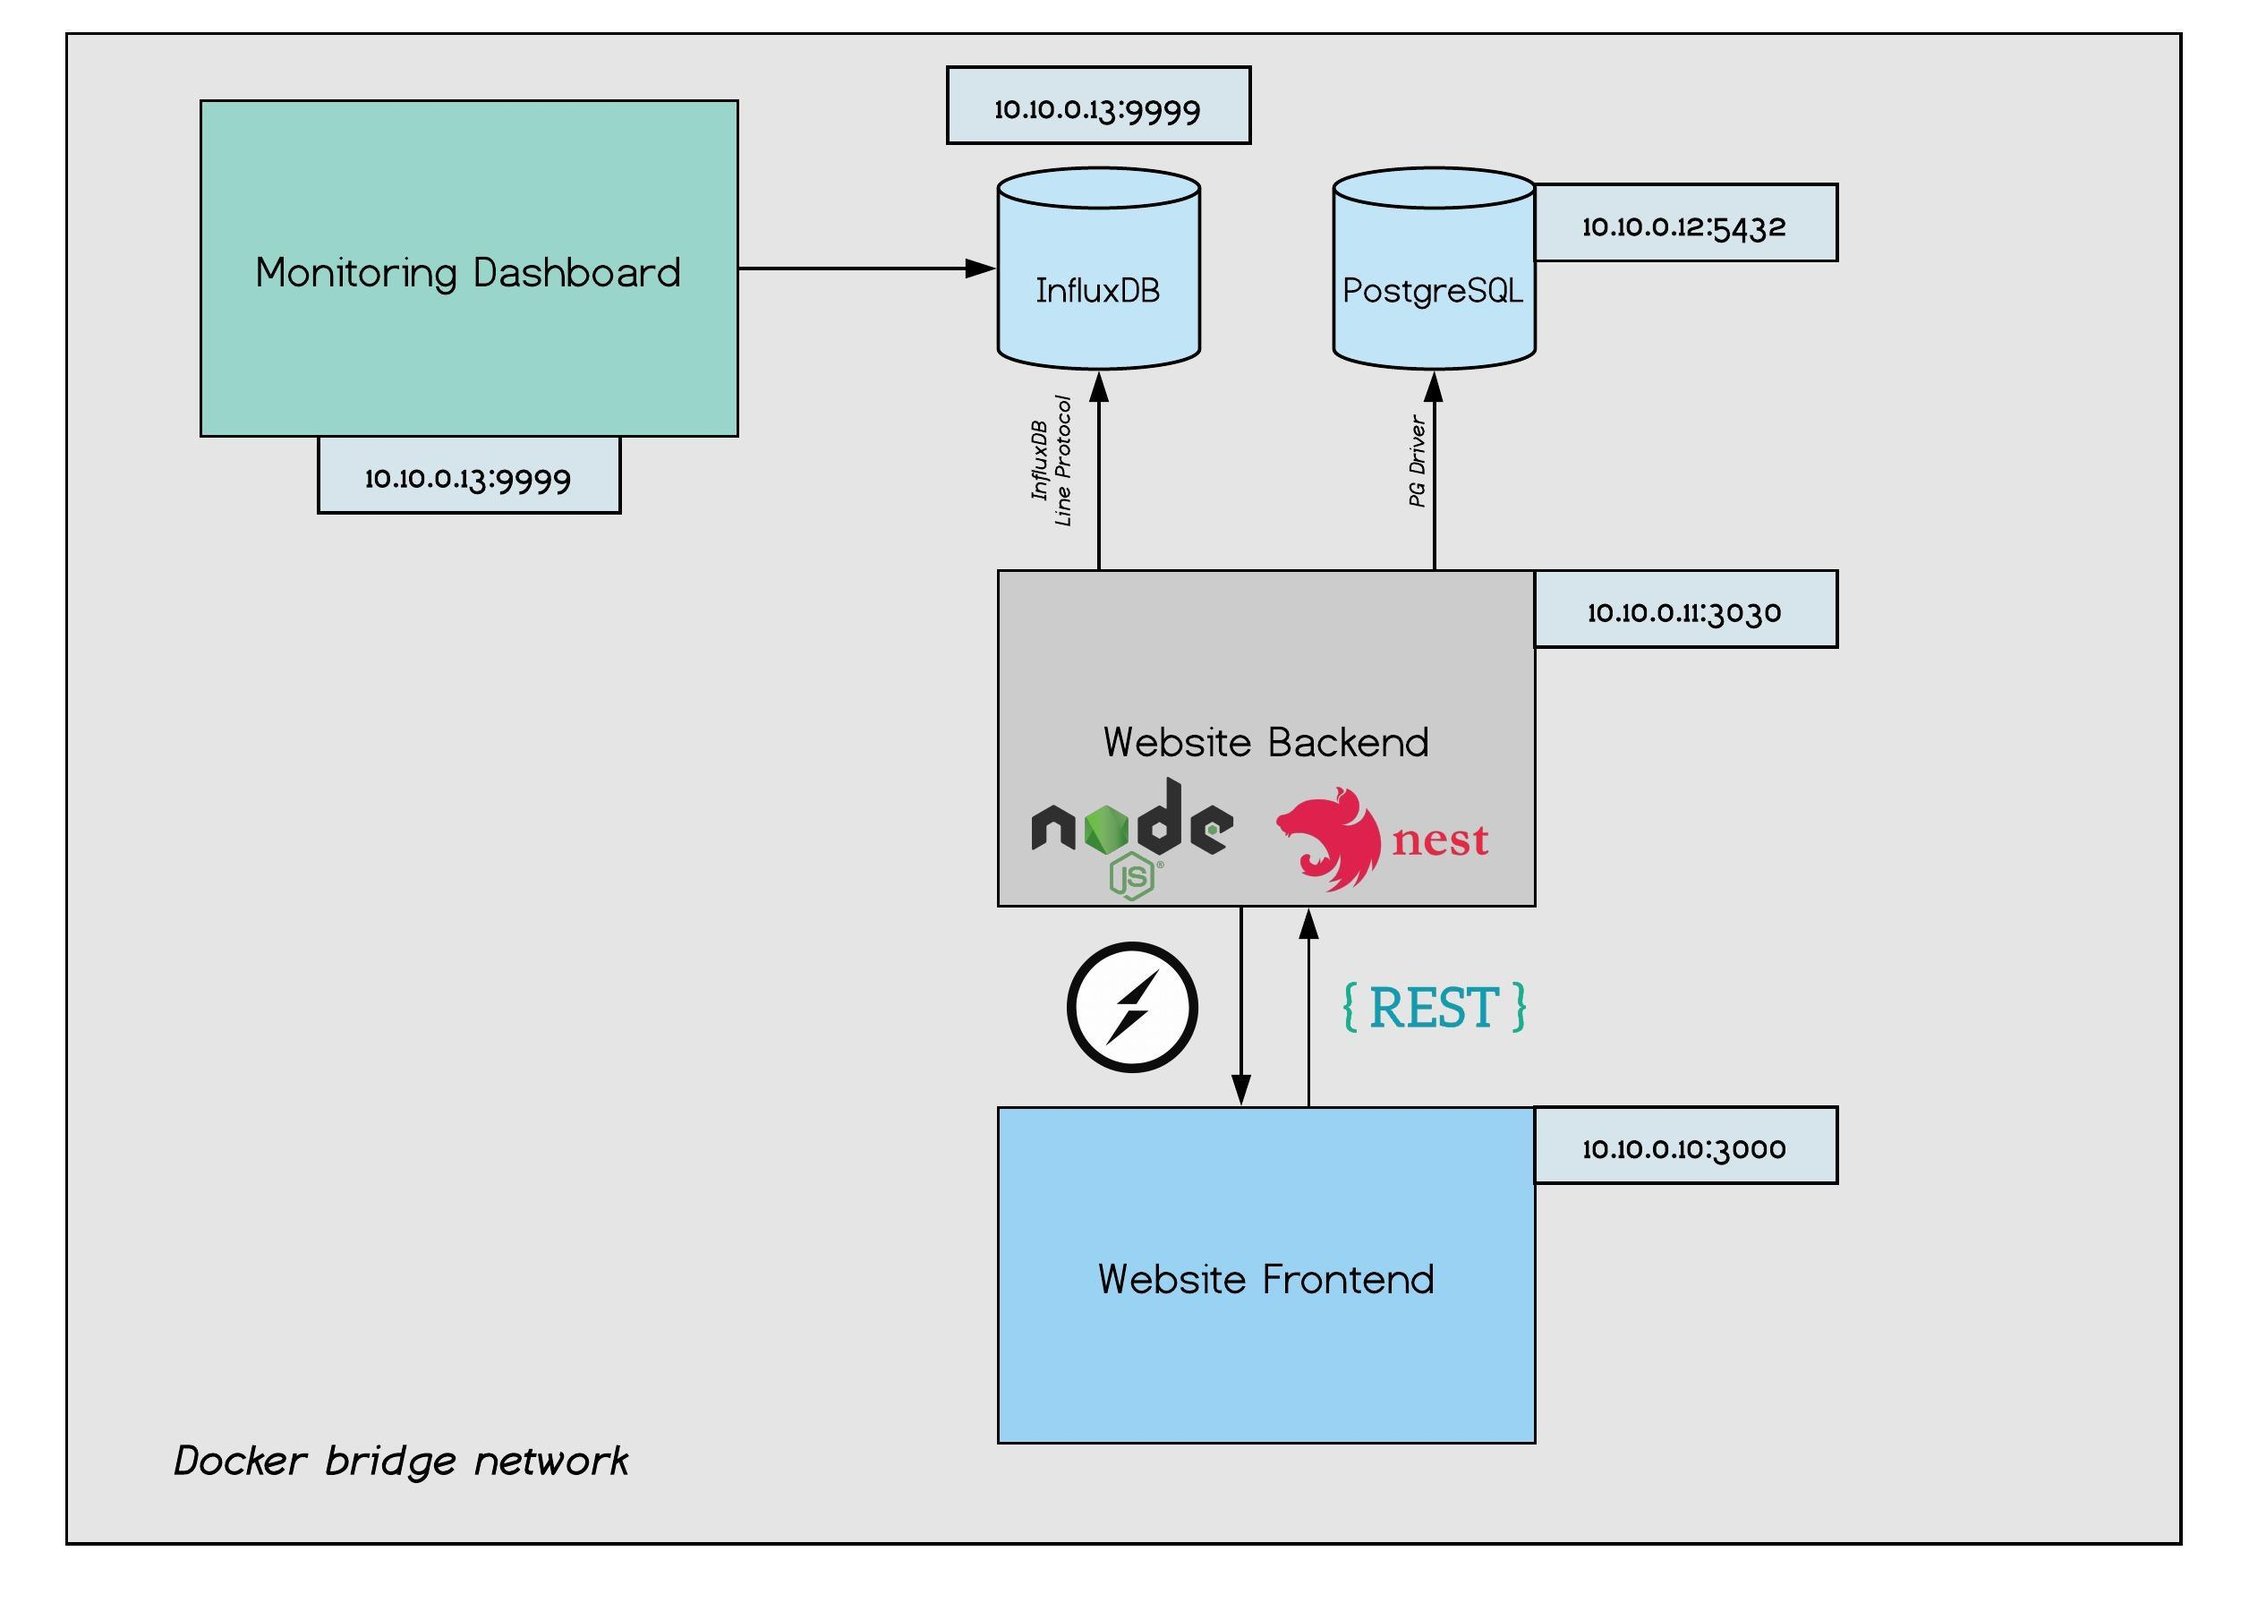
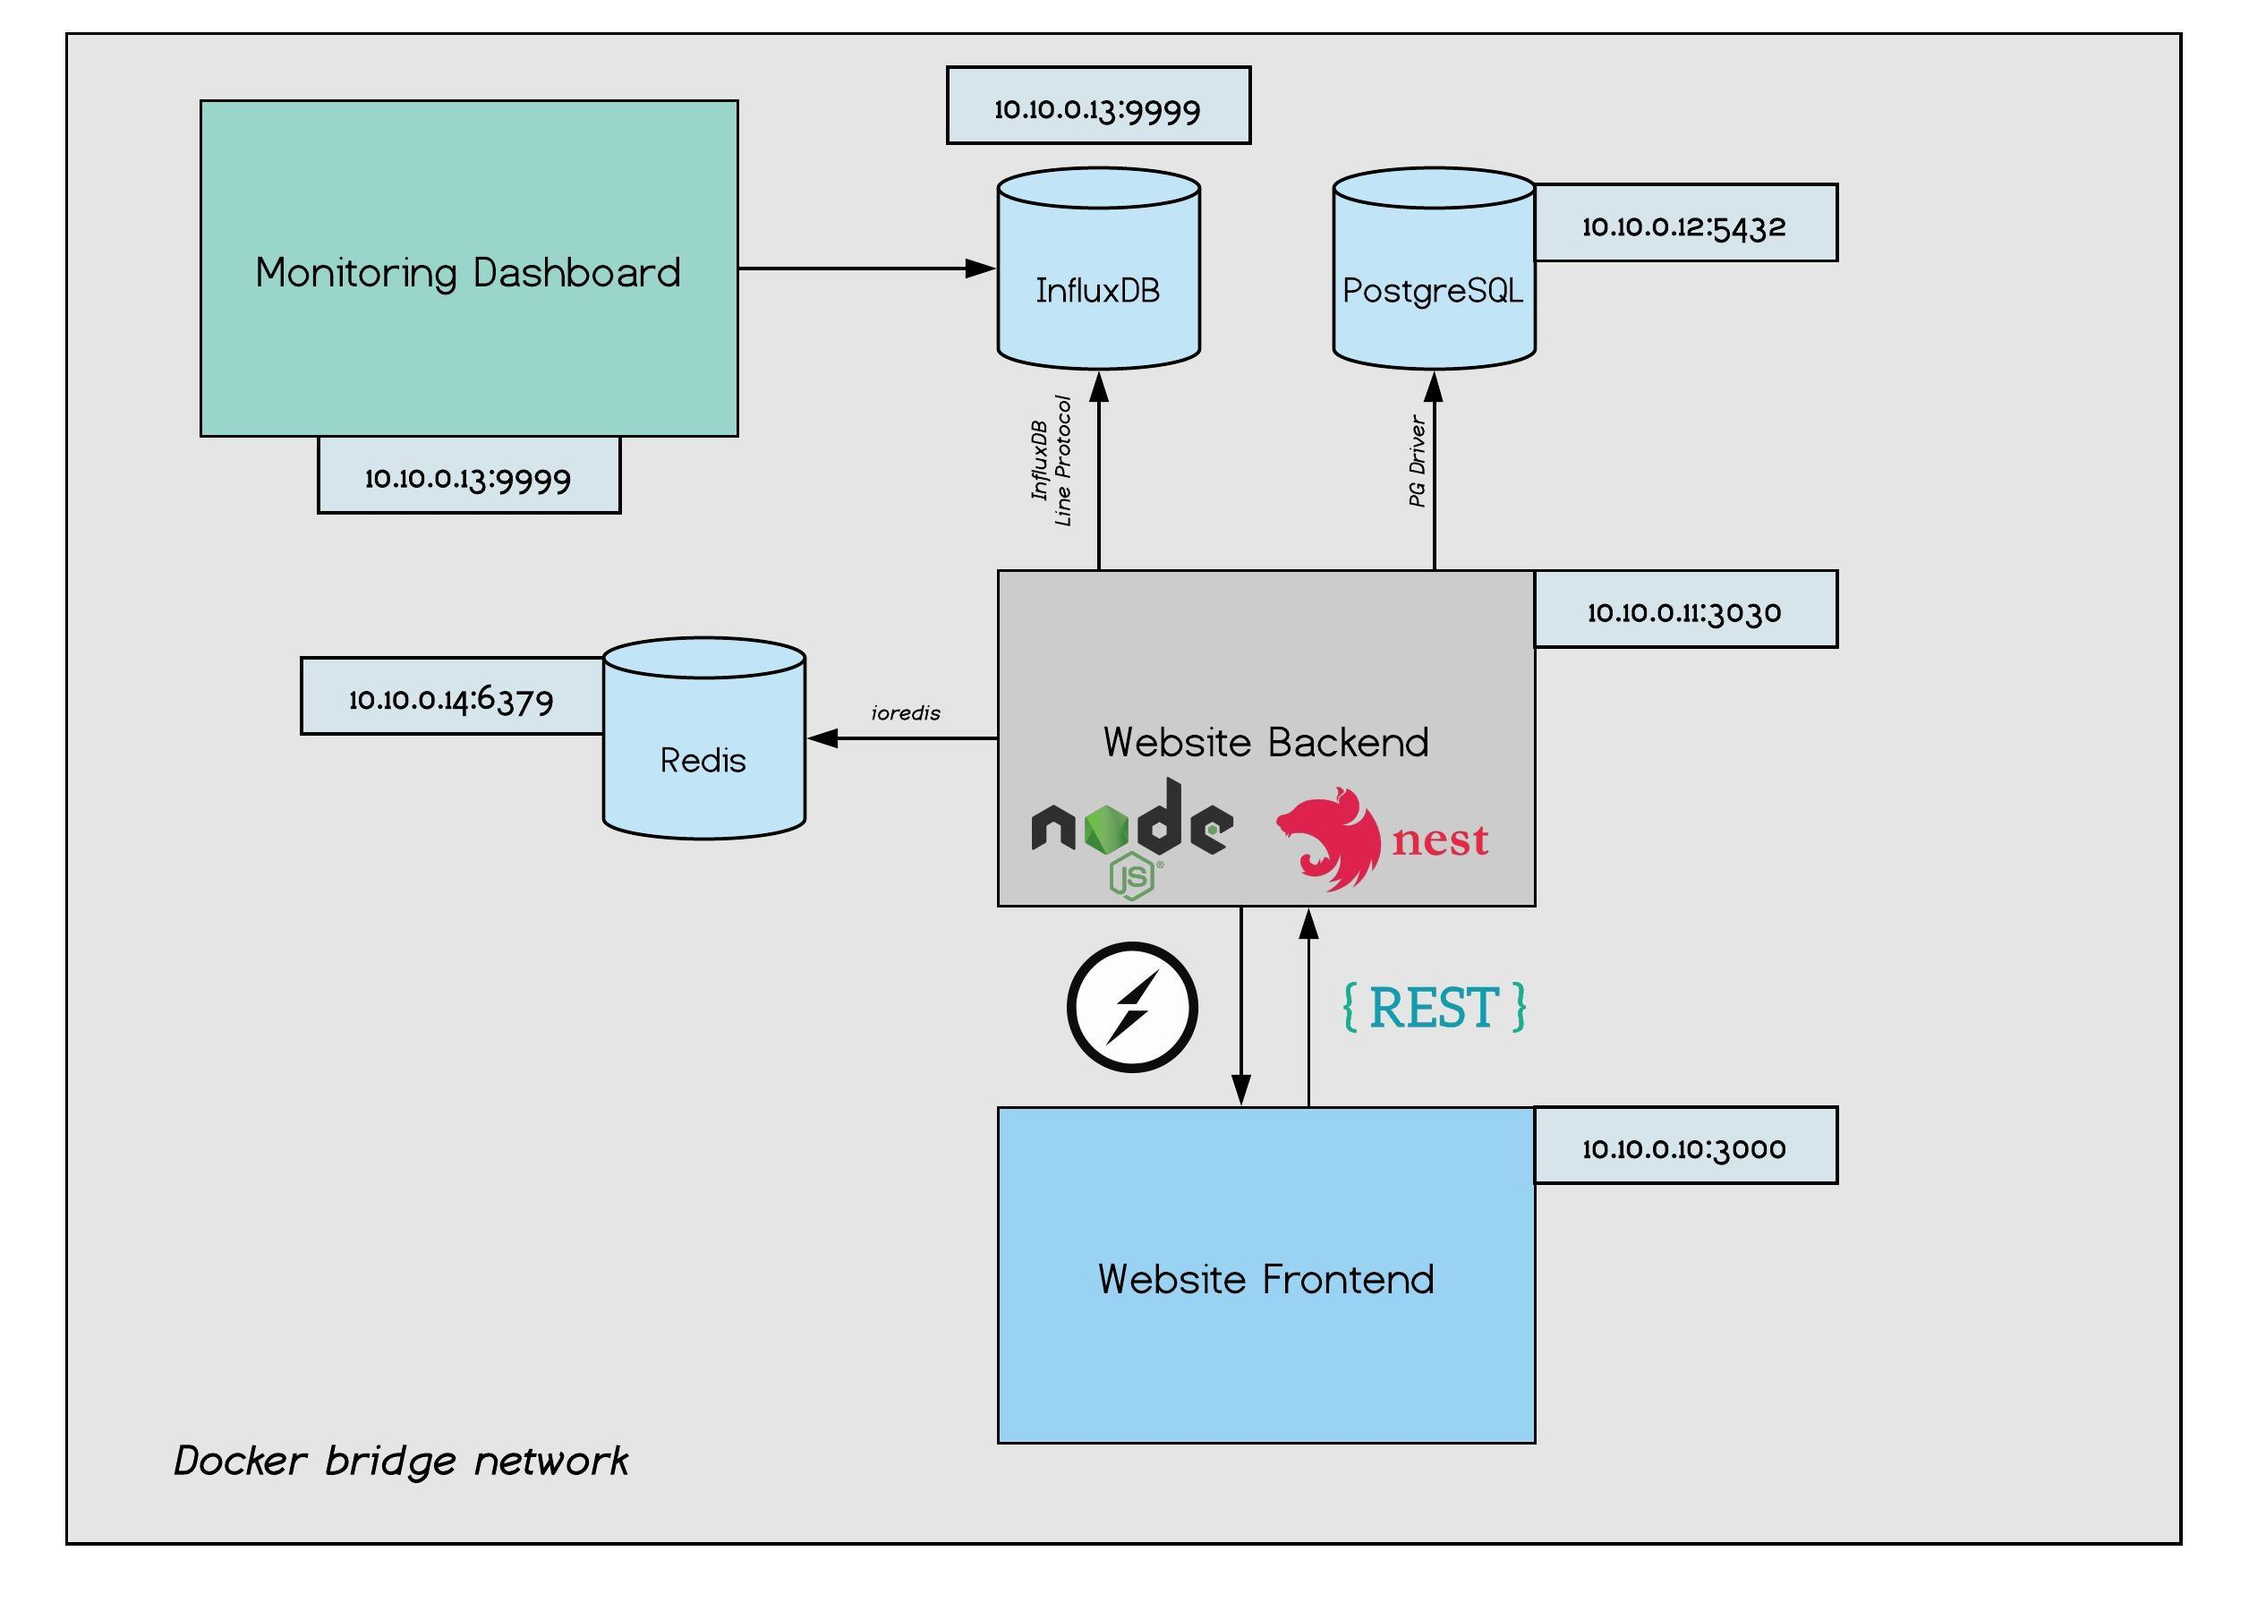
Implemented: Added redis to infrastructure; Added custom ConfigModule; Refactored config actions with new custom ConfigService; Added uniqueness mode for visitors counting (by ip); Added Redis module; Added TSDB service; Updated infrastructure diagram;

Changed region(s): [[0.1552, 0.3733, 0.4345, 0.5289]]

diff --git a/influx-monitoring-srv/src/tsdb/tsdb.gateway.ts b/influx-monitoring-srv/src/tsdb/tsdb.gateway.ts
@@ -8,26 +8,64 @@ import {
 } from '@nestjs/websockets';
 import { Server, Client, Socket } from 'socket.io';
 import { NestGateway } from '@nestjs/websockets/interfaces/nest-gateway.interface';
+import { ConfigService, EnvConfig } from '../config';
+import { TsdbService } from './tsdb.service';
 
 @WebSocketGateway({ transports: ['websocket'] })
 export class TsdbGateway implements NestGateway {
+  constructor(
+    private readonly configService: ConfigService,
+    private readonly tsdbService: TsdbService,
+  ) {
+    this.visitorUniqueByIpMode = this.configService.get<boolean>(
+      EnvConfig.VISITOR_UNIQUE_BY_IP_MODE,
+    );
+  }
+
   private readonly logger: Logger = new Logger(TsdbGateway.name, true);
+  private readonly visitorUniqueByIpMode: boolean = false;
 
   @WebSocketServer()
   server: Server;
 
   @SubscribeMessage('onsite')
-  onsite(@MessageBody() data: { url: string }, @ConnectedSocket() clientSocket: Socket) {
+  public async onsite(
+    @MessageBody() data: { url: string },
+    @ConnectedSocket() clientSocket: Socket,
+  ) {
+    if (this.visitorUniqueByIpMode) {
+      const ip = clientSocket.client.request.connection.remoteAddress;
+      const wsidAlreadyConnected = await this.tsdbService.getVisitorIpInKV(ip);
+      if (wsidAlreadyConnected && wsidAlreadyConnected !== clientSocket.id) {
+        this.logger.error(
+          `
+          Received duplicated connection from the same IP.\n
+          WSID-IP Active Pair: ${ip} <--> ${wsidAlreadyConnected}\n
+          WSID-IP Current Pair: ${ip} <--> ${clientSocket.id}\n
+          Message ignored.\n
+          `,
+        );
+        return; // Ignore connection and exit method
+      }
+    }
     this.logger.log(`Received onsite data from client ${clientSocket.id}:`);
-    const ip = clientSocket.client.request.connection.remoteAddress;
     this.logger.log(data);
   }
 
-  handleConnection(client: Client, ...args: any[]): void {
+  public async handleConnection(client: Client, ...args: any[]): Promise<void> {
+    if (this.visitorUniqueByIpMode) {
+      const ip = client.request.connection.remoteAddress;
+      await this.tsdbService.putVisitorIpInKV(ip, client.id);
+    }
+
     this.logger.log(`Client: ${client.id} connected.`);
   }
 
-  handleDisconnect(client: Client): void {
+  public async handleDisconnect(client: Client): Promise<void> {
+    if (this.visitorUniqueByIpMode) {
+      const ip = client.request.connection.remoteAddress;
+      await this.tsdbService.removeVisitorIpInKV(ip);
+    }
     this.logger.log(`Client: ${client.id} disconnected.`);
   }
 }

diff --git a/influx-monitoring-srv/src/tsdb/tsdb.service.ts b/influx-monitoring-srv/src/tsdb/tsdb.service.ts
@@ -1,0 +1,24 @@
+import { Injectable } from '@nestjs/common';
+import { RedisService } from 'nestjs-redis';
+import { Redis } from 'ioredis';
+
+@Injectable()
+export class TsdbService {
+  constructor(private readonly redisService: RedisService) {
+    this.redisClient = this.redisService.getClient();
+  }
+
+  private redisClient: Redis;
+
+  public async putVisitorIpInKV(visitorIp: string, wsid: string) {
+    return this.redisClient.set(visitorIp, wsid);
+  }
+
+  public async getVisitorIpInKV(visitorIp: string) {
+      return this.redisClient.get(visitorIp);
+  }
+
+  public async removeVisitorIpInKV(visitorIp: string) {
+      return this.redisClient.del(visitorIp);
+  }
+}

diff --git a/influx-monitoring-srv/src/main.module.ts b/influx-monitoring-srv/src/main.module.ts
@@ -1,8 +1,19 @@
 import { Module } from '@nestjs/common';
-import { ConfigModule } from '@nestjs/config';
+import { RedisModule } from 'nestjs-redis';
 import { TsdbModule } from './tsdb/tsdb.module';
+import { ConfigModule, ConfigService, EnvConfig } from './config';
 
 @Module({
-  imports: [ConfigModule.forRoot(), TsdbModule],
+  imports: [
+    ConfigModule,
+    RedisModule.forRootAsync({
+      useFactory: (configService: ConfigService) => ({
+        url: configService.get<string>(EnvConfig.REDIS_URL),
+      }),
+      inject: [ConfigService],
+    }),
+    TsdbModule,
+  ],
+  exports: [ConfigModule, TsdbModule],
 })
 export class MainModule {}

diff --git a/influx-monitoring-srv/src/main.ts b/influx-monitoring-srv/src/main.ts
@@ -1,10 +1,12 @@
 import { NestFactory } from '@nestjs/core';
 import { MainModule } from './main.module';
 import { Logger } from '@nestjs/common';
+import { ConfigService, EnvConfig } from './config';
 
 async function bootstrap() {
-  const app = await NestFactory.create(MainModule);
-  await app.listen(process.env.APP_PORT);
+  const srv = await NestFactory.create(MainModule);
+  const configService = srv.get<ConfigService>(ConfigService);
+  await srv.listen(configService.get<number>(EnvConfig.APP_PORT));
   Logger.log(`Server is running on port ${process.env.APP_PORT}`, 'SUCCESS!');
 }
 bootstrap();

diff --git a/influx-monitoring-srv/src/config/config.service.ts b/influx-monitoring-srv/src/config/config.service.ts
@@ -1,0 +1,24 @@
+import { Injectable } from '@nestjs/common';
+import { config } from 'dotenv';
+
+@Injectable()
+export class ConfigService {
+  constructor() {
+    config();
+  }
+
+  public get<T>(key: string): T {
+    if (process.env[key] === undefined) {
+      throw new TypeError(`Enviroment ${key} not set!`);
+    }
+    try {
+      return JSON.parse(String(process.env[key])) as T;
+    } catch (err) {
+      return (process.env[key] as unknown) as T;
+    }
+  }
+
+  public set(key: string, value: any) {
+    process.env[key] = value;
+  }
+}

diff --git a/influx-monitoring-srv/src/tsdb/tsdb.module.ts b/influx-monitoring-srv/src/tsdb/tsdb.module.ts
@@ -1,7 +1,9 @@
 import { Module } from '@nestjs/common';
 import { TsdbGateway } from './tsdb.gateway';
+import { TsdbService } from './tsdb.service';
 
 @Module({
-  providers: [TsdbGateway]
+  providers: [TsdbGateway, TsdbService],
+  exports: [TsdbGateway, TsdbService],
 })
 export class TsdbModule {}

diff --git a/influx-monitoring-srv/src/config/config.module.ts b/influx-monitoring-srv/src/config/config.module.ts
@@ -1,0 +1,9 @@
+import { Module, Global } from '@nestjs/common';
+import { ConfigService } from './config.service';
+
+@Global()
+@Module({
+  exports: [ConfigService],
+  providers: [ConfigService],
+})
+export class ConfigModule {}

diff --git a/influx-monitoring-srv/src/config/env-config.enum.ts b/influx-monitoring-srv/src/config/env-config.enum.ts
@@ -1,0 +1,5 @@
+export enum EnvConfig {
+  APP_PORT = 'APP_PORT',
+  VISITOR_UNIQUE_BY_IP_MODE = 'VISITOR_UNIQUE_BY_IP_MODE',
+  REDIS_URL = 'REDIS_URL',
+}

diff --git a/influx-monitoring-srv/src/config/index.ts b/influx-monitoring-srv/src/config/index.ts
@@ -1,0 +1,3 @@
+export * from './config.module';
+export * from './config.service';
+export * from './env-config.enum';
